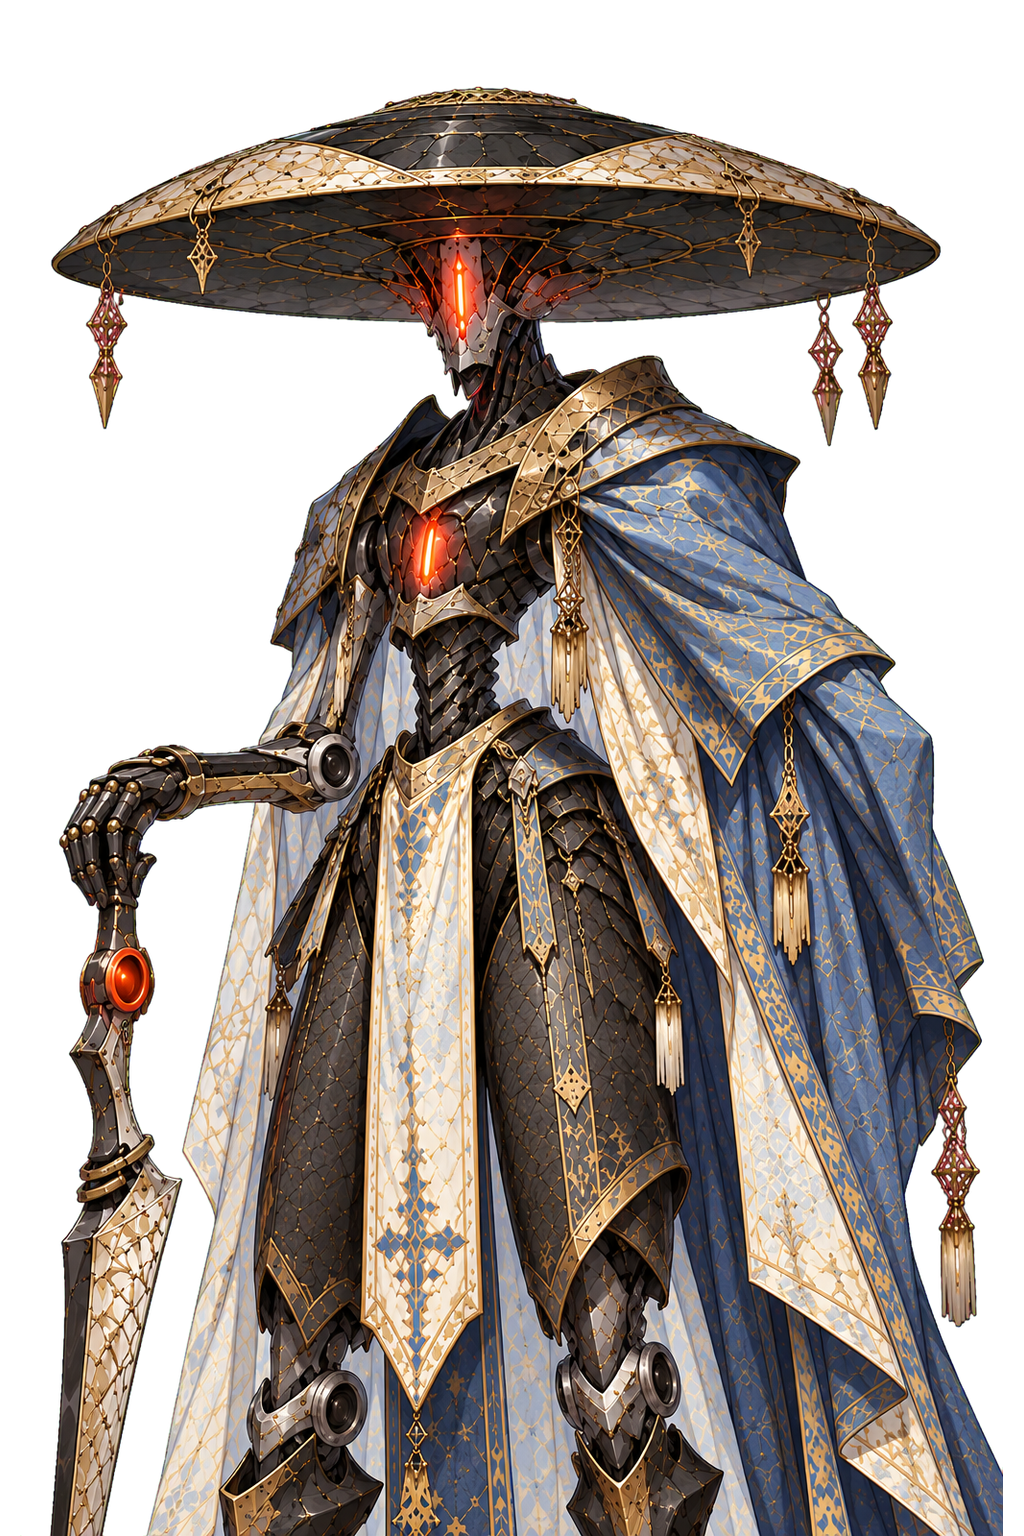
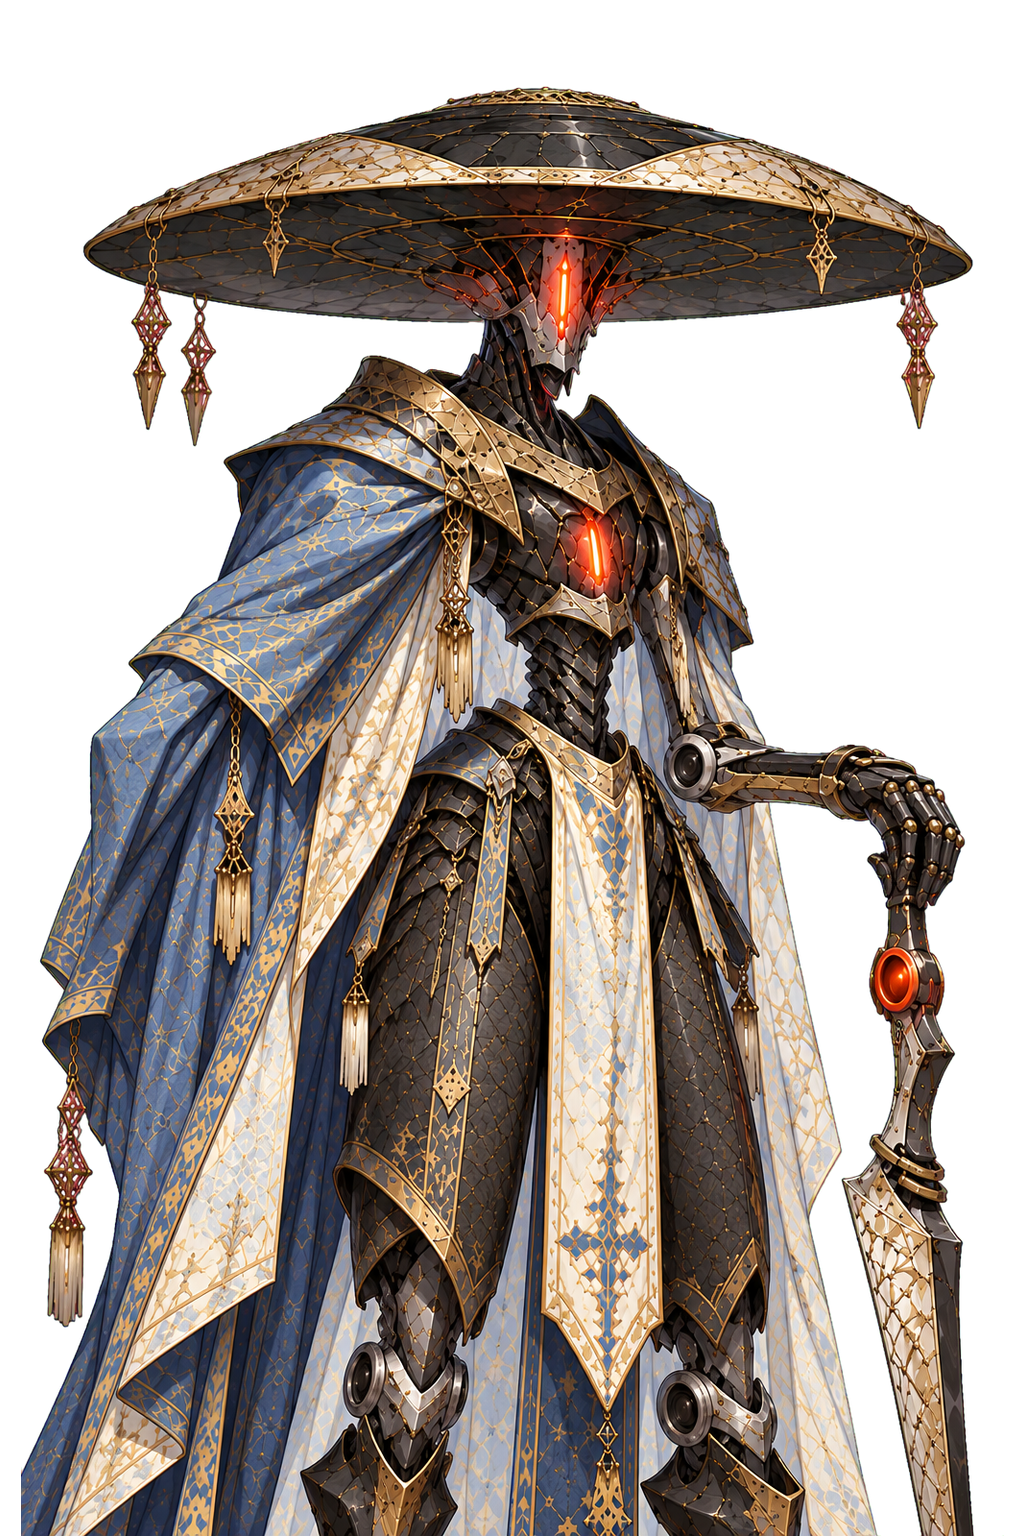
Utsusemi's phase 1 close-up mirrored so its cane sword sits on the right like its full-body painting; intro focus mirrored to follow the slit-eye

diff --git a/Assets/Scripts/Core/GameManager.Bosses.cs b/Assets/Scripts/Core/GameManager.Bosses.cs
@@ -349,7 +349,7 @@ public partial class GameManager
         {
             portrait = utsusemiPortrait, closeup = utsusemiCloseup,
             // Framed on its slit-eye, the whole hat brim and its pendants on screen.
-            closeupHeight = 1500f, closeupFocus = new Vector2(0.45f, 0.19f), closeupAt = new Vector2(0f, 255f),
+            closeupHeight = 1500f, closeupFocus = new Vector2(0.55f, 0.19f), closeupAt = new Vector2(0f, 255f),
             // Overdriven: framed between its slit-eye and the open core, the broken hat ringing the top.
             phasePortrait = utsusemiPhasePortrait, phaseCloseup = utsusemiPhaseCloseup, phaseEpithet = Utsusemi.PhaseEpithet,
             // Pulled back as far as the painting allows: its left edge limits it, so the slit-eye sits a little left.
